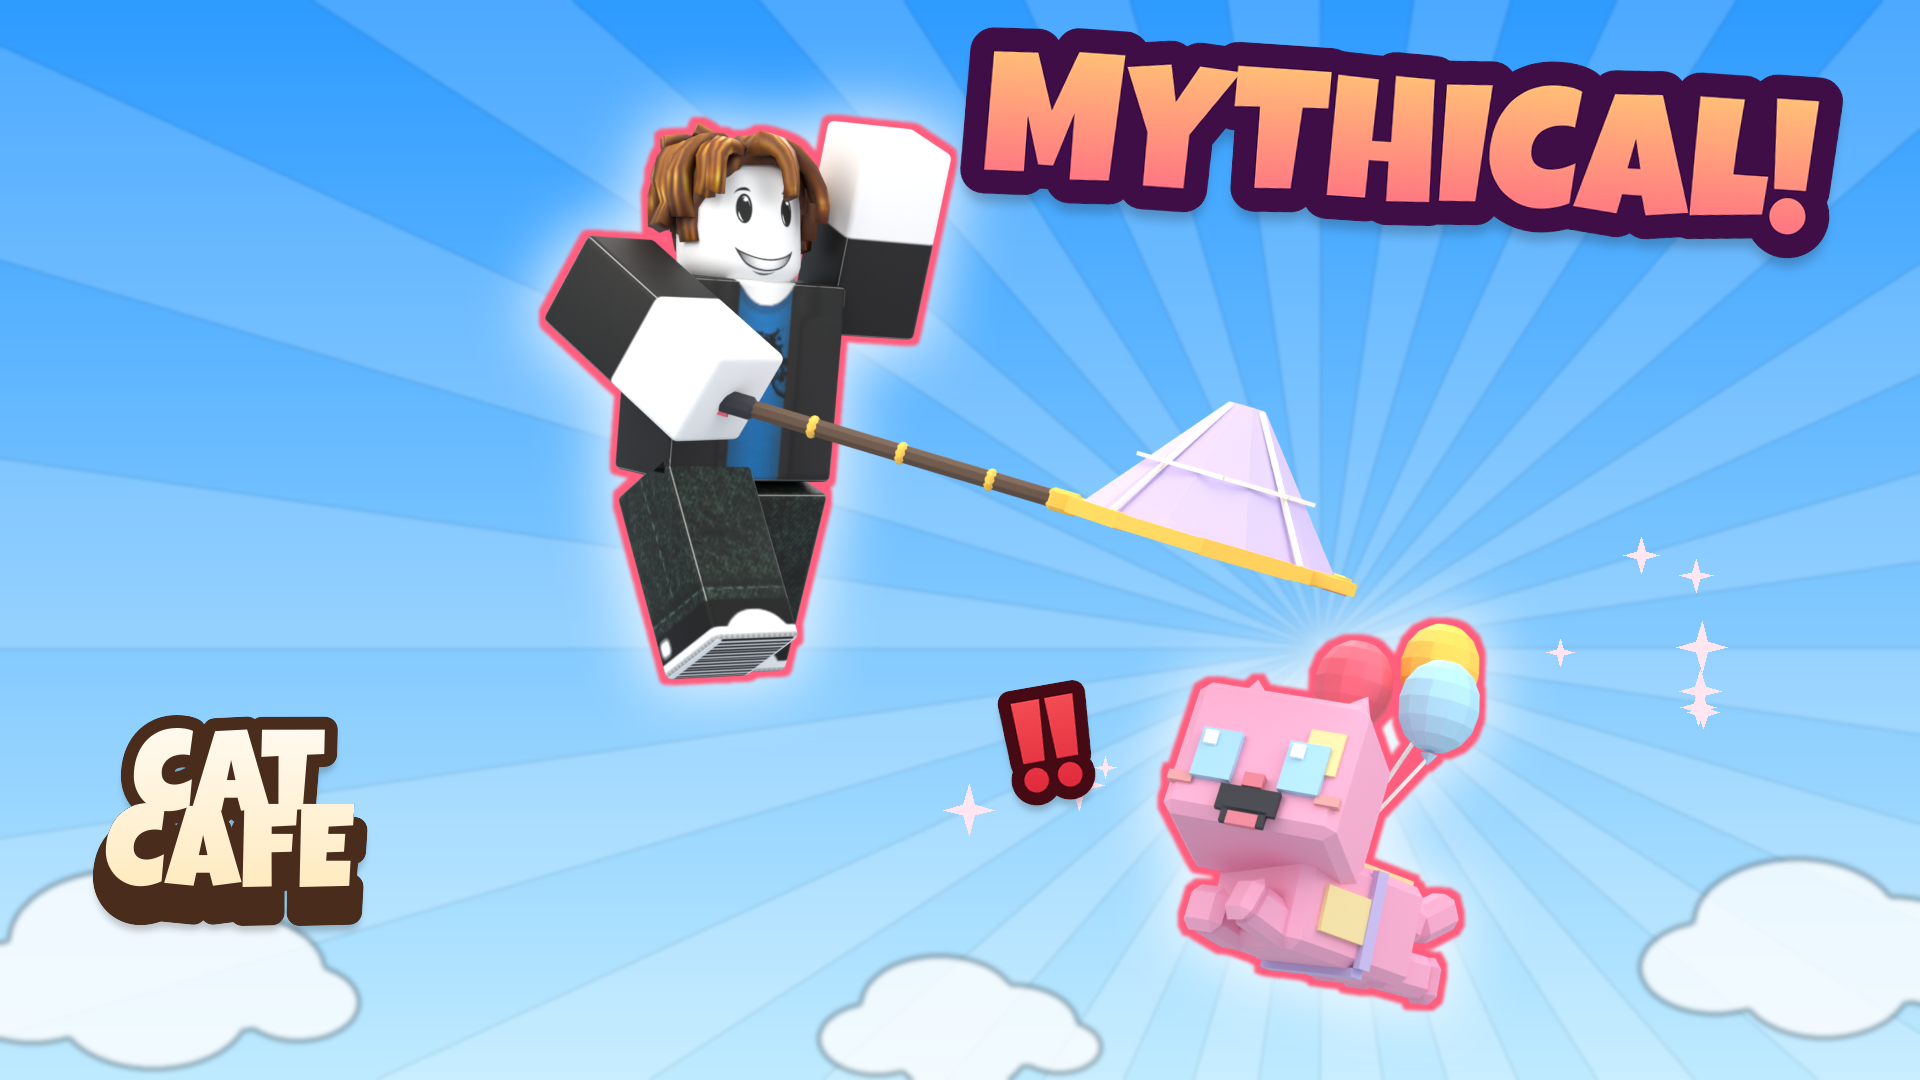
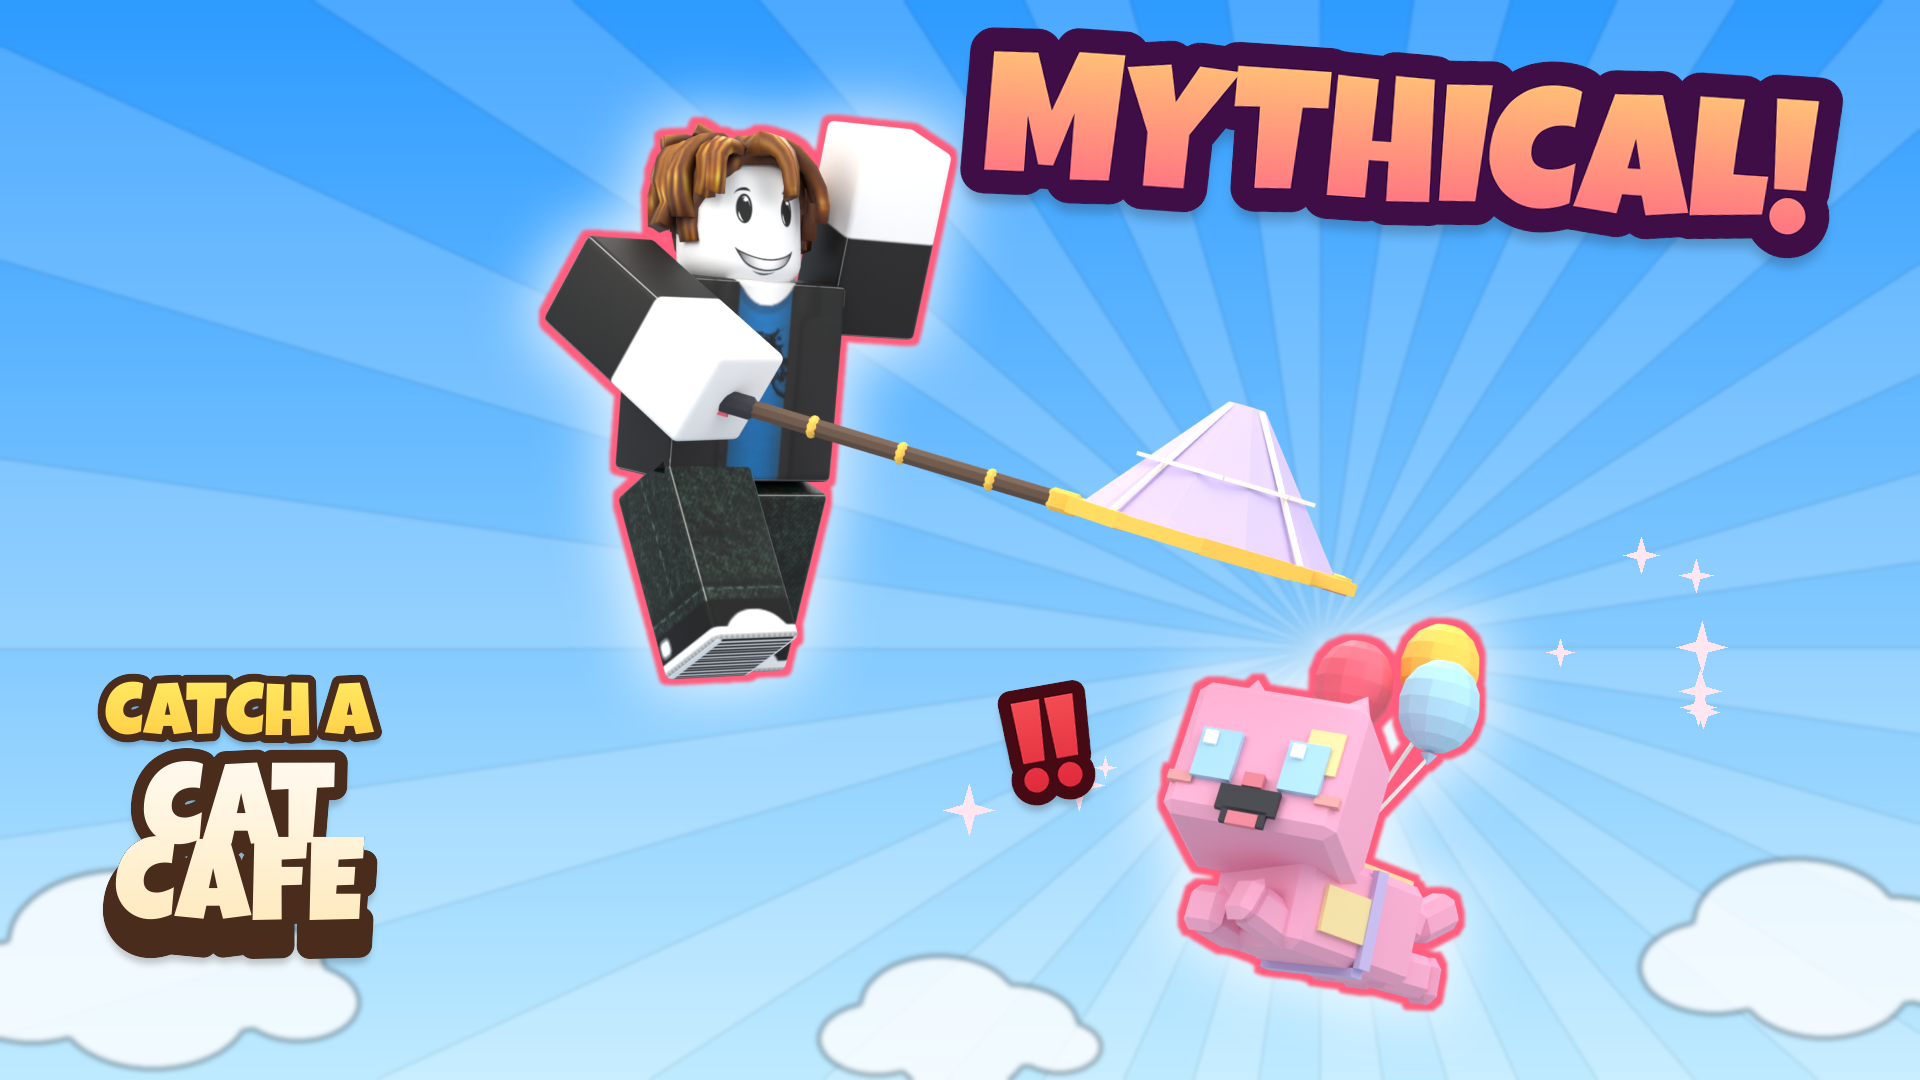
Final name Catch a Cat Cafe: decision, CLAUDE.md, store page text, pictures
Derek picked "Catch a Cat Cafe" (2026-11-02 18:42, no hyphens, plain Cafe).
Code names keep the cat-cafe slug.

- docs/decisions.md: the decision and why; CLAUDE.md: name line and heading.
- store-page.yml and tools/opencloud/store-page.sh: show, or set the
  experience's name and description from store-page.txt on main. Roblox keeps
  them on the root place, so it uses the Places PATCH (universe.place:write).
- store-page.txt: the name and a description whose first line keeps "cat cafe"
  and "catch cats", with only live features.
- Picture N gets a CATCH A CAT CAFE logo; P is the 10-27 picture re-titled.

Claude-Session: https://claude.ai/code/session_01QtKGL1YLRkWWbZ5eTJdLo8

Changed region(s): [[0.0312, 0.6111, 0.2188, 0.9167]]

diff --git a/docs/growth/store-art/2026-11-02-set3/README.md b/docs/growth/store-art/2026-11-02-set3/README.md
@@ -4,7 +4,7 @@ Six 1920 x 1080 thumbnails built on Research-Agent's thumbnail study of 33 trend
 
 - One big hero, 50 to 60% of the image height, caught mid-action with an open-mouthed reaction. Derek first chose a cat for the reacting hero (J to M). At 15:12 he asked for the trending games' other pattern too, a default-style Roblox player doing the game's action, and at 15:29 he picked the "bacon hair" default look the popular games use (not the yellow, blue and green one). At 16:30 he sent a reference picture of the real one, and at 16:51 asked that the renders use the actual Roblox avatar the way the front-page thumbnails do (Steal an Egg and others) rather than a look-alike. N and O now pose the real R6 default avatar: the classic head and R6 body in near-white, wearing Roblox's own catalog items Pal Hair (63690008), Blue and Black Motorcycle Shirt (144076358) and Dark Green Jeans (144076760), with the catalog faces The Winning Smile (616380929) on N and Laughing Fun (226217449) on O. The face is laid on the head the way Roblox does it (the texture 1.2 times the head's size, top edge at the head's top, so the eyes sit just above the middle and the mouth low), and N's head turns toward the camera so the fringe and the fist leave the face clear (Derek 18:30 asked to see the faces up close). The hair mesh and clothing templates were downloaded from Roblox for the render only; they are Roblox's files and are not stored in this repo.
 - One big hook in the top third: a real rarity, real odds or a real income figure, in gold or rainbow gradient with a thick dark outline.
-- "CAT CAFE" only on the first image; at most 2 or 3 more words.
+- The game's name only on the first image; at most 2 or 3 more words. Since Derek picked the final name (2026-11-02 18:42) the logo reads CATCH A over CAT CAFE (N and P; J keeps the old CAT CAFE title and is out of the Home test).
 - Warm cats on cool, flat backgrounds; a different rare cat on each image.
 
 Made from the game's own models (the Blender generator in `assets/cat-cafe/blender`, rendered in Cycles; the leap and flight poses and the open mouth are render-only, not game models; the player is Roblox's default avatar), with text and effects drawn on top. `set3-phone-size.png` shows them at 200 px wide, the size Roblox shows on phones, above set 2.
@@ -17,8 +17,9 @@ Derek's fixes (15:10 and 15:11): J's net now stays clear of the Balloon Cat's ba
 | `CatCafe_Thumb_K_RainbowOdds.png` | A Rainbow Tabby pouncing toward the camera on purple, "1 IN 200" in the coat's hues and "RAINBOW CAT" | Config.RainbowChanceNet and RainbowChanceBait = 0.005, the base odds before rainbow luck |
 | `CatCafe_Thumb_L_TopEarner.png` | Eclipse (Mythical, Sewer) at work with the waiter's tray, coin piles flying, "+$6,075/s" and "ONE MYTHICAL CAT" | Catalog: Mythical 75/s x Sewer area 81 = 6,075/s, the Index figure, written the way the game writes a rate (+$ and /s) |
 | `CatCafe_Thumb_M_CannonFlight.png` | Blossom (Legendary) flying out of the Town Square's Cat Cannon with a dotted trail and a smoke puff, "BLAST OFF!" and "CAT CANNON" | F84 cannon flights. In the game the player rides the cannon; here the cat stands in for the player, as on the other images |
-| `CatCafe_Thumb_N_PlayerCatch.png` | The player swooping the Master net down over the Balloon Cat as it leaps in, "MYTHICAL!", "!!" and a small CAT CAFE logo | The same claims as J; the player swings the net in the game |
+| `CatCafe_Thumb_N_PlayerCatch.png` | The player swooping the Master net down over the Balloon Cat as it leaps in, "MYTHICAL!", "!!" and a small CATCH A CAT CAFE logo | The same claims as J; the player swings the net in the game |
 | `CatCafe_Thumb_O_PlayerCannon.png` | The player blasting out of the Cat Cannon, arms up, "BLAST OFF!" and "CAT CANNON" | F84: the cannon launches the player, so this is the flight as it happens in the game |
+| `CatCafe_Thumb_P_CafeNamed.png` | The 2026-10-27 store picture (an orange barista cat with a cup in the cafe) re-titled CATCH A CAT CAFE, with "Catch strays. Run your cafe." | The cafe and its staff cats are the game's own; catching strays and running the cafe are the core loop |
 
 Titles sit in the top two thirds, since Roblox draws the player count over the bottom of a thumbnail in some views. Each file is under 3 MB.
 

diff --git a/docs/decisions.md b/docs/decisions.md
@@ -348,3 +348,6 @@ Derek approved building these on 2026-10-26 ("most of the feedback done lets sta
 
 ### Lead (Derek's ask in the Research-Agent thread, 2026-11-02, working with Gavin)
 - 2026-11-02: Gavin joins with his own Claude plan and his own Claude project on this repo, because a Claude Code project can't be shared with a second person on any plan (not on Team either yet). The two projects avoid grabbing the same work through `claim` issues (CLAUDE.md rule 15, the "Claim work" issue form), and Gavin's branches start with `gavin/`. Derek's project library and memory are copied to a private repo once a day (Derek, 14:34) so Gavin's Claude can read them, and Gavin's own files come back into the library's `Gavin/` folder. Why: one claim board in the repo both projects already read beats a second coordinator guessing, and the library stays where Derek's app shows it. Research: Research-Agent/working-with-a-friend-2026-11-02.md in the project files.
+
+### Decided by Derek, checked by the Research-Agent thread (2026-11-02 18:42, the final name), recorded by the lead (Tools-Agent thread)
+- 2026-11-02 18:42: The game's name is **Catch a Cat Cafe**, written without hyphens and with a plain "Cafe". It replaces the working title Cat Cafe on the store page, in the thumbnails, in player-facing text and in prose. Code names keep the `cat-cafe` slug and the `CatCafe` prefix (paths, `CatCafeProfiles`, `CatCafeDebug`, the `[CatCafe]` log prefix, data store names), so no save, path or id changes. The store page name and description come from `games/cat-cafe/tools/opencloud/store-page.txt` through the `store-page` workflow, so the text is reviewed in a PR like code. Why: Derek chose it after his friends' poll. It opens with the verb like the biggest Roblox titles ("Steal a Brainrot", "Grow a Garden"), names the real loop (you catch strays and they work in your cafe) and keeps the words players type ("cat cafe", "catch a cat"). No Roblox game used it at the 18:44 recheck. Roblox search treats a hyphen as a space, so leaving the hyphens out costs nothing in search, and kids don't type them. Research: Research-Agent/game-names-2026-11-02.md in the project files. The check runs again the week the game goes public.

diff --git a/.claude/skills/merge-and-publish/SKILL.md b/.claude/skills/merge-and-publish/SKILL.md
@@ -51,4 +51,6 @@ Three more workflows use the same key (`ROBLOX_PUBLISH_KEY`, with the permission
 
 - **Game passes** (the shop's one-time purchases): `workflow_id: "game-passes.yml"`, `ref: "main"`, `inputs: {"action": "list"}` prints every pass as `<id>  <name>  R$<price>, on sale|off sale` with the Config field it fills. `{"action": "create"}` makes each pass in `games/cat-cafe/tools/opencloud/passes.json` whose name is not there yet, off sale (`"for_sale": true` to sell at once), and ends with lines like `LongNapPassId = <id>` for Config. `{"action": "set", "pass": "<id or name>", "changes": "price=99 forSale=true"}` changes one pass (`regional=true|false` and `icon=<repo path>` too); the launch-week half prices and day 8 go back this way. Needs `game-pass:read` and `game-pass:write` on the key (docs/setup-guide.md step 22). Passes cannot be deleted, so add one to `passes.json` only when the code that sells it is merged, and read `list` before a `create`.
 
+- **Store page text** (the experience's name and description): `workflow_id: "store-page.yml"`, `ref: "main"`, `inputs: {"action": "show"}` prints the name, visibility and description Roblox has now. `{"action": "set"}` writes the name (line 1) and description (from line 3) of `games/cat-cafe/tools/opencloud/store-page.txt` on main to the root place, which is where Roblox keeps the experience's text, and reads it back; a warning means Roblox's filter changed a word. So change the text in a PR first, then run `set`. It never changes who can join. Needs `universe:write` and `universe.place:write` (the key has full permissions since 2026-11-02); a 409 means Studio has the place open in Team Create.
+
 The image, report and analytics scripts (`games/cat-cafe/tools/opencloud/upload-image.sh`, `bug-reports.sh`, `analytics.sh`, `game-passes.sh`) also run from Git Bash with the key in the environment; `upload.py` runs anywhere with Python 3.

diff --git a/CLAUDE.md b/CLAUDE.md
@@ -1,6 +1,6 @@
-# Cat Cafe studio rules
+# Catch a Cat Cafe studio rules
 
-Working title: **Cat Cafe** (placeholder until a real name is picked). Game slug used in paths: `cat-cafe`. One game for now; the repo layout leaves room for a second.
+Game name: **Catch a Cat Cafe** (final since 2026-11-02: no hyphens, plain Cafe; the working title before it was Cat Cafe). Game slug used in paths: `cat-cafe`, and code names keep it (`CatCafe*`). One game for now; the repo layout leaves room for a second.
 Phase as of 2026-10-25: Phase 0 (setup on Derek's PC) running in parallel with an early Phase 2 rough draft.
 Repo: https://github.com/derekburnz/Cat-Cafe (public since 2026-10-27, source of truth; named purr-pot until 2026-10-27). Work on a branch, open a pull request, let CI run the check gate. Once a PR is reviewed, turn on GitHub auto-merge for it (merge commit) and it merges itself when the required checks pass; the `automerge` label is the fallback when GitHub refuses. Publishing to Roblox runs from GitHub Actions (skill `merge-and-publish`).
 
